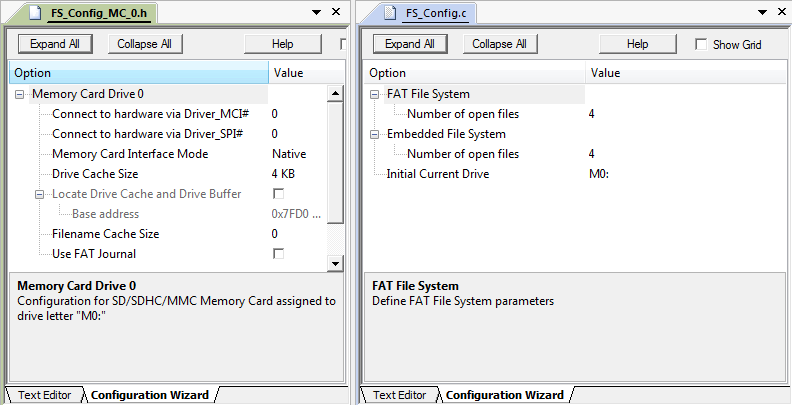
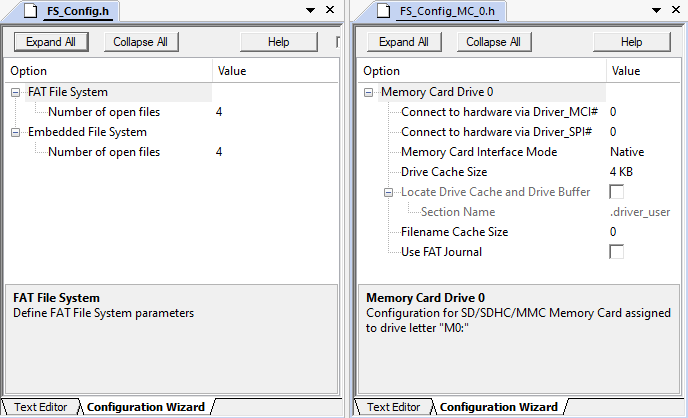
Documentation: update General section

diff --git a/Documentation/Doxygen/style_template/URL_keys.js b/Documentation/Doxygen/style_template/URL_keys.js
@@ -92,7 +92,6 @@ var arrurl = [];
  arrurl.push( new urlKey( "MW-Graphics",                    "https://www.keil.com/pack/doc/mw/Graphics/html/index.html",         "Graphics Component"));
  arrurl.push( new urlKey( "MW-Network",                     "../../html/Network/index.html",                                     "Network Component"));
  arrurl.push( new urlKey( "MW-USB",                         "../../html/USB/index.html",                                         "USB Component"));
- arrurl.push( new urlKey( "MW-Board",                       "../../html/Board/index.html",                                       "Board Support Component"));
 
  arrurl.push( new urlKey( "STM32Cube",                      "https://www.st.com/en/development-tools/stm32cubemx.html",          "STMicroelectronic's STM32CubeMX"));
  arrurl.push( new urlKey( "DAVE",                           "https://softwaretools.infineon.com/tools/com.ifx.tb.tool.daveide",  "Infineon's DAVE"));

diff --git a/Documentation/Doxygen/General/src/General.md b/Documentation/Doxygen/General/src/General.md
@@ -12,11 +12,10 @@ This documentation describes:
  - \url{MW-Graphics}: create flexible graphical user interfaces (GUIs) for LCD displays (separately available in the \urlout{Keil-Graphics-Pack} software pack).
  - \url{MW-Network}: services, protocol sockets, and physical communication interfaces for creating networking applications.
  - \url{MW-USB}: create USB Device and USB Host applications with standard USB device classes.
- - \url{MW-Board}: describes the board support interfaces that are used by the various example programs.
 
 Software components outside the scope of this documentation are:
 
- - \urlout{CMSIS-RTX5}: the real-time operating system used by all middleware components. RTX is available as part of the \urlout{ARM-SW-Pack} software pack.
+ - \urlout{CMSIS-RTX5}: the real-time operating system used by all middleware components. RTX is available as a separate \urlout{ARM-SW-Pack} software pack.
  - \urlout{mbedTLS}: a software component providing encryption and secure communication for network components. mbed TLS is available as a separate \urlout{mbedTLS-Pack} software pack.
 
 Each component is configurable for a wide range of applications and requires the \ref DriverInterface "driver interface" as described by the \urlout{CMSIS-Driver} standard.
@@ -24,41 +23,15 @@ Each component is configurable for a wide range of applications and requires the
 > **Note**
 > - Before using MDK-Middleware, please make sure that your selected microcontroller device offers CMSIS-Driver support.
 
-## MDK Editions {#gen_mdk_editions}
-
-MDK-Middleware is available to all users of \urlout{MDK-Pro-Editions} and \urlout{MDK-Plus-Editions}. The following table shows the differences in middleware component availability:
-
-| Middleware Component | MDK-Professional | MDK-Plus  |
-|----------------------|:----------------:|:---------:|
-| File System          | Available        | Available |
-| Graphics             | Available        | Available |
-| Network (IPv4)       | Available        | Available |
-| Network (IPv4/IPv6)  | Available        |           |
-| Network (SSL/TLS)    | Available        |           |
-| USB Device           | Available        | Available |
-| USB Host             | Available        |           |
-
 ## Middleware Component Selection {#gen_mw_component_select}
 
-To add the MDK-Middleware components to your project, you need to select the proper MDK edition in the **Manage Run-Time Environment** window.
+To add the MDK-Middleware components to your project, you need to select required components in the **CMSIS Component Manager**:
 
-Using **MDK-Plus**, select:
-
-![](./images/mdk_plus_selected.png)
-
-Using **MDK-Professional**, select:
-
-![](./images/mdk_pro_selected.png)
-
-> **Note**
-> - If you have an MDK-Plus license installed, but select **MDK-Pro**, you will get an error at compile time.
+![](./images/mw_selected.png)
 
 ## Supported toolchains {#gen_supported_toolchains}
 
-MDK-Middleware libraries are verified to work in &mu;Vision projects with the target toolchain set to default Arm Compiler 5 or Arm Compiler 6 versions included in the MDK installer.
-
-> **Note**
-> - When using Arm Compiler 6 with Link-Time Optimization (LTO) enabled, linker errors and warnings might be issued for some symbols in the MDK-Middleware libraries due to known limitations in the toolchain. In such cases the LTO option should not be used.
+MDK-Middleware libraries are available as source code and will work with all major toolchains including Arm Compiler 6, GCC and IAR.
 
 ## Migrating to CMSIS v6 {#migrating_cmsis_v6}
 
@@ -75,8 +48,7 @@ In the Manage Run-Time Environment window you will see similar messages:
 Refer to the [project migration guide](https://learn.arm.com/learning-paths/microcontrollers/project-migration-cmsis-v6/troubleshooting/) on how to migrate these components to the new ones.
 
 > **Note**
-> - Component migration is not mandatory and you can continue using the old components. In that case,
-you need to ignore the validation and build output messages.
+> - Component migration is not mandatory and you can continue using the old components. In that case, you need to ignore the validation and build output messages.
 
 
 \page DriverInterface Driver Interface
@@ -114,7 +86,6 @@ The following table gives you links to the respective sections of each middlewar
   <tr>
     <td><b>Create an Application</b></td>
     <td><a href="../FileSystem/fs_create_app.html"><b>File System</b></a></td>
-    <td><a href="https://www.keil.com/pack/doc/mw/Graphics/html/gui_gs_dialog.html"><b>Graphics</b></a></td>
     <td><a href="../Network/network_create_app.html"><b>Network</b></a></td>
     <td><a href="../USB/_u_s_b__device.html#Creation_Steps"><b>USB Device</b></a></td>
     <td><a href="../USB/_u_s_b__host.html#Create_a_USB_Host_Application"><b>USB Host</b></a></td>
@@ -122,7 +93,6 @@ The following table gives you links to the respective sections of each middlewar
   <tr>
     <td><b>Example projects</b></td>
     <td><a href="../FileSystem/html/fs_examples.html"><b>File System</b></a></td>
-    <td></td>
     <td><a href="../Network/nw_examples.html"><b>Network</b></a></td>
     <td><a href="../USB/_u_s_b__device__tutorial.html"><b>USB Device</b></a></td>
     <td><a href="../USB/_u_s_b__host__tutorial.html"><b>USB Host</b></a></td>
@@ -130,14 +100,12 @@ The following table gives you links to the respective sections of each middlewar
   <tr>
     <td><b>Resource Requirements</b></td>
     <td><a href="../FileSystem/fs_resource_requirements.html"><b>File System</b></a></td>
-    <td><a href="https://www.keil.com/pack/doc/mw/Graphics/html/graphic_resource_requirements.html"><b>Graphics</b></a></td>
     <td><a href="../Network/nw_resource_requirements.html"><b>Network</b></a></td>
     <td colspan="2" align="center"><a href="../../USB/html/usb_resource_requirements.html"><b>USB</b></a></td>
   </tr>
   <tr>
     <td><b>Reference</b></td>
     <td><a href="../FileSystem/modules.html"><b>File System</b></a></td>
-    <td><a href="https://www.keil.com/pack/doc/mw/Graphics/html/gui_documentation.html"><b>Graphics</b></a></td>
     <td><a href="../Network/modules.html"><b>Network</b></a></td>
     <td colspan="2" align="center"><a href="../USB/modules.html"><b>USB</b></a></td>
   </tr>

diff --git a/Documentation/Doxygen/General/src/using_mw.md b/Documentation/Doxygen/General/src/using_mw.md
@@ -2,24 +2,24 @@
 
 ## Generic Steps {#mw_using_generic_steps}
 
-There are a few generic steps that have to be done to include a middleware component in a µVision project:
+There are a few generic steps that have to be done to include a middleware component in a project:
 
-![Generic steps for adding Middleware to a µVision project](./images/generic_steps.png)
+![Generic steps for adding Middleware to a project](./images/generic_steps.png)
 
 ### Add Software Components {#add_sw_comp}
 
-Using the **Manage Run-Time Environment** window, you need to select the required software components for your application. The **Validation Output** helps you to identify dependencies to other software components and resolves them automatically, whenever possible.
+Using the **CMSIS Component Manager** window, you need to select the required software components for your application. The **Validation Output** helps you to identify dependencies to other software components and resolves them automatically, whenever possible.
 
-![Manage Run-Time Environment Window with Validation Errors](./images/manage_rte_window.png)
+![CMSIS Component Manager Window with Validation Errors](./images/manage_rte_window.png)
 
 ### Configure Middleware {#conf_mw}
 
-Every middleware component has specific configuration files that need to be adapted to the needs of the application. Depending on the component, more than one file might need to be adapted. For example, the **File System** component needs to be configured for the amount of files that can be opened simultaneously and the initial current drive in the **FS_Config.c** file.
+Every middleware component has specific configuration files that need to be adapted to the needs of the application. Depending on the component, more than one file might need to be adapted. For example, the **File System** component needs to be configured for the amount of files that can be opened simultaneously.
 
 In addition, you need to set drive specific settings in the **FS_Config_<i>Drive</i>_0.h** file, such as page and block sizes
 for Flash memories, general disk sizes for a RAM drive, and the hardware driver number for connecting the drive to the appropriate hardware peripheral driver.
 
-![File System Configuration Files FS_Config_MC_0.h and FS_Config.c](./images/file_system_conf.png)
+![File System Configuration Files FS_Config.H AND FS_Config_MC_0.h](./images/file_system_conf.png)
 
 ### Configure Drivers {#conf_drivers}
 
@@ -48,7 +48,7 @@ Every software component has resource requirements for stack, heap, and memory. 
 
 The **startup_device.s** file is provided by the device vendor in a [Device Family Pack](https://open-cmsis-pack.github.io/Open-CMSIS-Pack-Spec/main/html/index.html).
 
-The file will be copied into a µVision project automatically after selecting **Device:Startup** in the **Manage Run-Time Environment** window. It is used to configure the size of the stack that is used by exceptions and **interrupt service routines (ISR)** for the current project. The stack size requirements depend on the maximum nesting of exception and ISR execution and therefore on the priority settings of the various interrupt and exception sources. Also, the heap which is used by memory allocation functions is configured in this file.
+The file will be copied into a project automatically after selecting **Device:Startup** in the **Manage Run-Time Environment** window. It is used to configure the size of the stack that is used by exceptions and **interrupt service routines (ISR)** for the current project. The stack size requirements depend on the maximum nesting of exception and ISR execution and therefore on the priority settings of the various interrupt and exception sources. Also, the heap which is used by memory allocation functions is configured in this file.
 
 Most of the middleware components only require additional **stack** size, whereas the **File System** component also
 requires additional **heap** size. The memory requirements are stated in the \ref mw_using_mw "Resource Requirements" section
